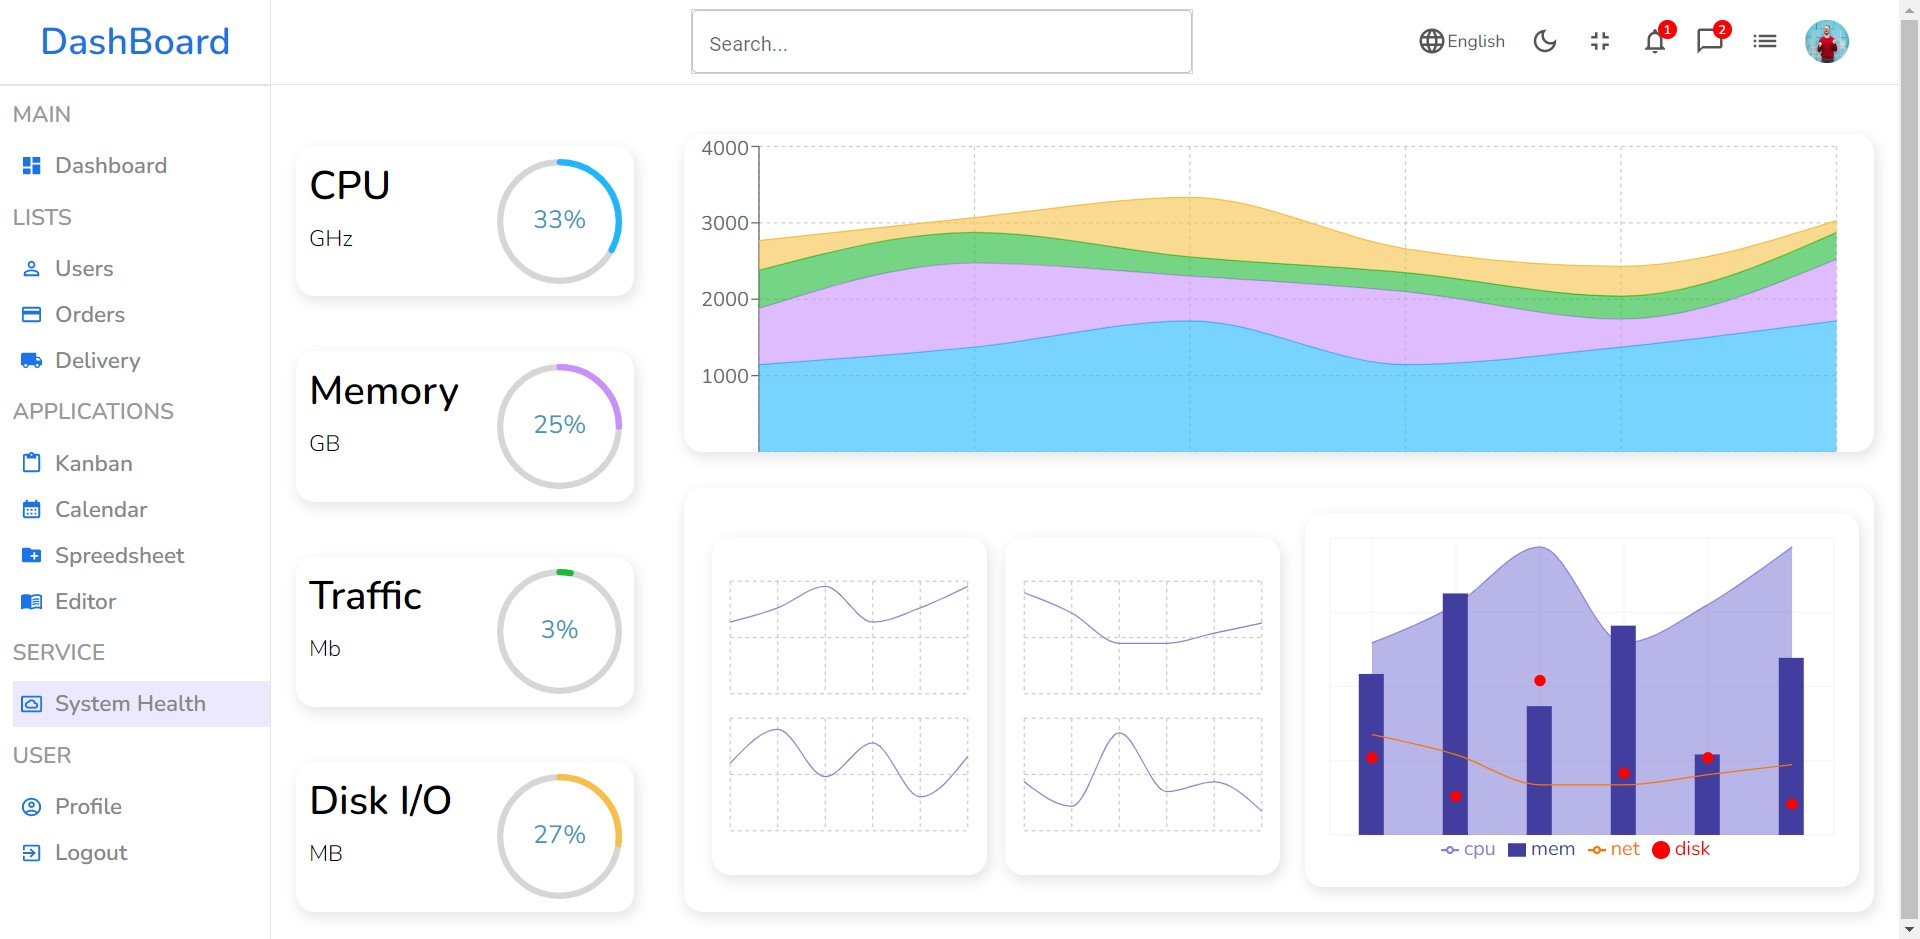
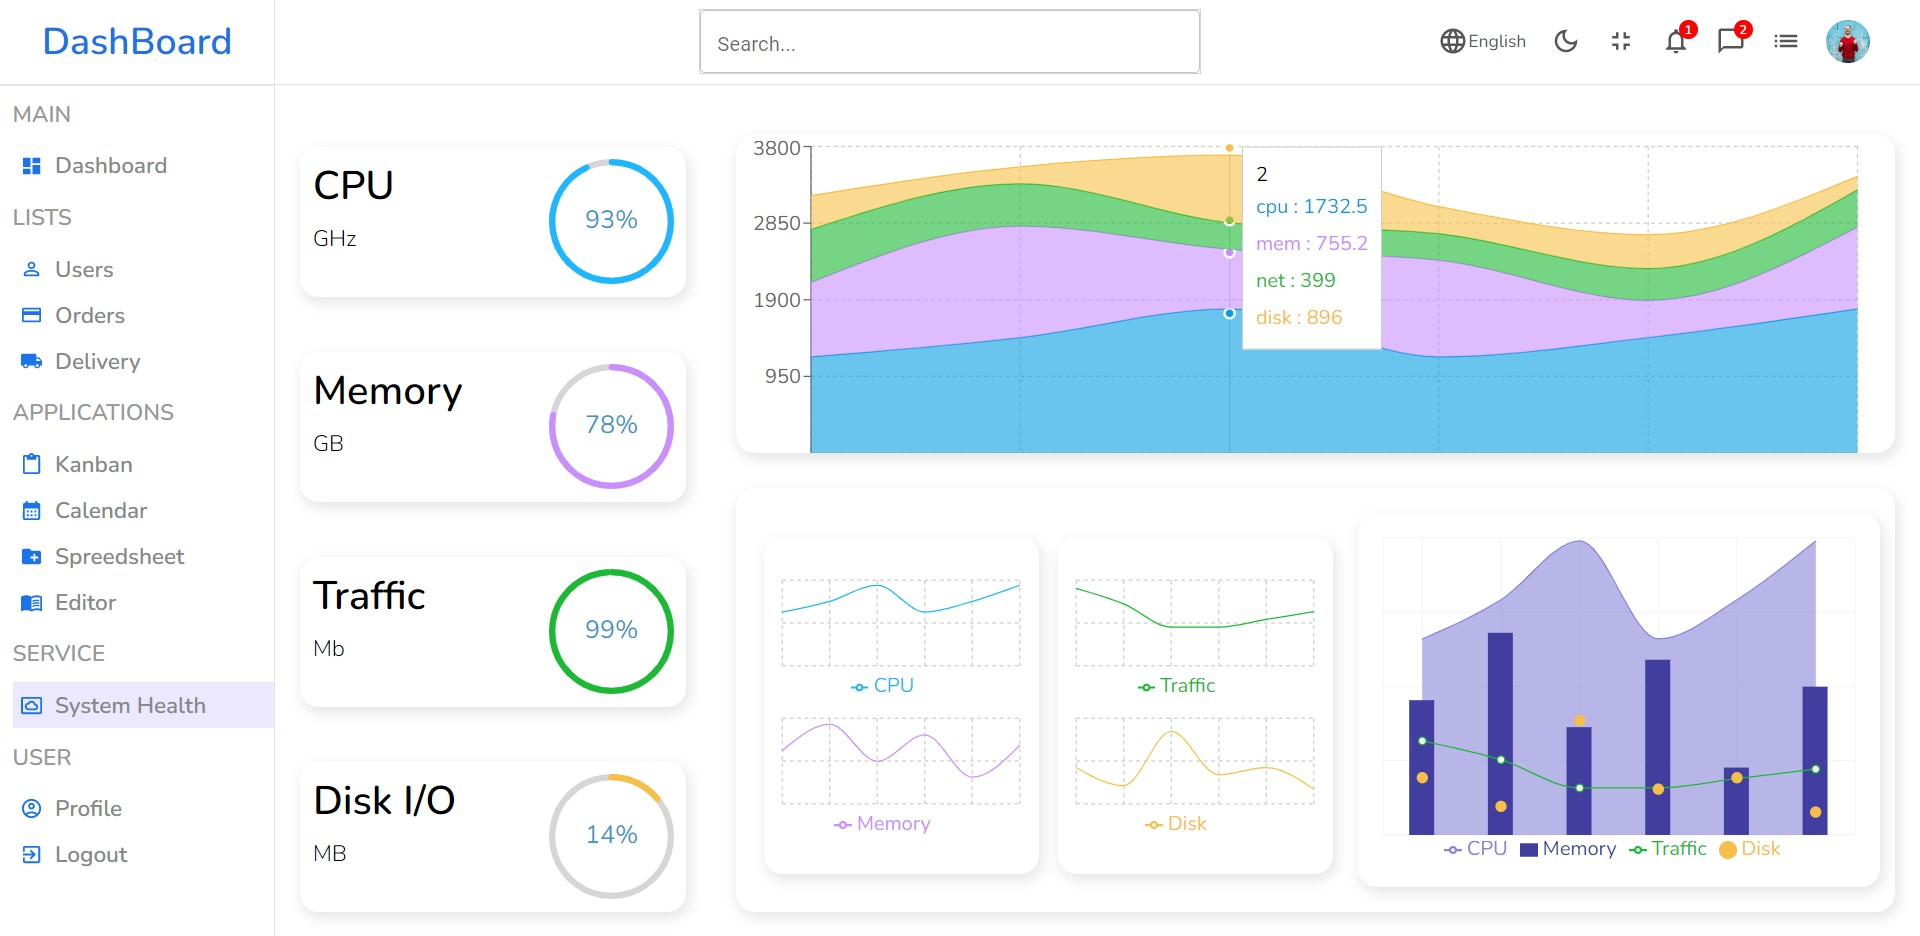
added system health section and Loader

diff --git a/src/components/chart/MultipleChart.jsx b/src/components/chart/MultipleChart.jsx
@@ -2,14 +2,13 @@ import { useState, useEffect } from 'react';
 import { LineChart, Line, XAxis, YAxis, CartesianGrid, Tooltip, Legend } from 'recharts';
 import './chart.css'
 
-
 function MultipleChart() {
 
     const [data, setData] = useState([{
-        cpu: 4000,
-        mem: 2400,
-        net: 2400,
-        disk: 2000
+        CPU: 4000,
+        Memory: 2400,
+        Traffic: 2400,
+        Disk: 2000
     },]);
 
     useEffect(() => {
@@ -19,9 +18,9 @@ function MultipleChart() {
             let c = Math.floor(Math.random() * (800 - 500 + 1) + 500)
             let d = Math.floor(Math.random() * (500 - 300 + 1) + 300)
 
-            setData([{ cpu: a, mem: b, net: c, disk: d }, { cpu: 1.2 * a, mem: 1.5 * b, net: 0.8 * c, disk: 0.5 * d },
-            { cpu: 1.5 * a, mem: 0.8 * b, net: 0.5 * c, disk: 2 * d }, { cpu: a, mem: 1.3 * b, net: 0.5 * c, disk: 0.8 * d },
-            { cpu: 1.2 * a, mem: 0.5 * b, net: 0.6 * c, disk: d }, { cpu: 1.5 * a, mem: 1.1 * b, net: 0.7 * c, disk: 0.4 * d }])
+            setData([{ CPU: a, Memory: b, Traffic: c, Disk: d }, { CPU: 1.2 * a, Memory: 1.5 * b, Traffic: 0.8 * c, Disk: 0.5 * d },
+            { CPU: 1.5 * a, Memory: 0.8 * b, Traffic: 0.5 * c, Disk: 2 * d }, { CPU: a, Memory: 1.3 * b, Traffic: 0.5 * c, Disk: 0.8 * d },
+            { CPU: 1.2 * a, Memory: 0.5 * b, Traffic: 0.6 * c, Disk: d }, { CPU: 1.5 * a, Memory: 1.1 * b, Traffic: 0.7 * c, Disk: 0.4 * d }])
         }, 4000)
     }, [])
 
@@ -30,24 +29,28 @@ function MultipleChart() {
             <div className="multi-chart-row1">
                 <LineChart className='small-charts' width={200} height={100} data={data}>
                     <CartesianGrid strokeDasharray="3 3" />
-                    <Line type="monotone" dataKey="cpu" stroke="#8884d8" activeDot={{ r: 8 }} />
+                    <Legend />
+                    <Line type="monotone" dataKey="CPU" stroke="rgb(30, 183, 255)" activeDot={{ r: 8 }} />
                 </LineChart>
 
                 <LineChart className='small-charts' width={200} height={100} data={data}>
                     <CartesianGrid strokeDasharray="3 3" />
-                    <Line type="monotone" dataKey="mem" stroke="#8884d8" activeDot={{ r: 8 }} />
+                    <Legend />
+                    <Line type="monotone" dataKey="Memory" stroke="rgb(202, 142, 255)" activeDot={{ r: 8 }} />
                 </LineChart>
             </div>
 
             <div className="multi-chart-row2">
                 <LineChart className='small-charts' width={200} height={100} data={data}>
                     <CartesianGrid strokeDasharray="3 3" />
-                    <Line type="monotone" dataKey="net" stroke="#8884d8" activeDot={{ r: 8 }} />
+                    <Legend />
+                    <Line type="monotone" dataKey="Traffic" stroke="rgb(27, 185, 52)" activeDot={{ r: 8 }} />
                 </LineChart>
 
                 <LineChart className='small-charts' width={200} height={100} data={data}>
                     <CartesianGrid strokeDasharray="3 3" />
-                    <Line type="monotone" dataKey="disk" stroke="#8884d8" activeDot={{ r: 8 }} />
+                    <Legend />
+                    <Line type="monotone" dataKey="Disk" stroke="rgb(247, 191, 71)" activeDot={{ r: 8 }} />
                 </LineChart>
             </div>
         </div>
@@ -55,3 +58,4 @@ function MultipleChart() {
 }
 
 export default MultipleChart
+

diff --git a/src/components/chart/LineBarArea.jsx b/src/components/chart/LineBarArea.jsx
@@ -13,58 +13,14 @@ import {
     ResponsiveContainer,
 } from 'recharts';
 
-// const data = [
-//     {
-//         name: 'Page A',
-//         uv: 590,
-//         pv: 800,
-//         amt: 1400,
-//         cnt: 490,
-//     },
-//     {
-//         name: 'Page B',
-//         uv: 868,
-//         pv: 967,
-//         amt: 1506,
-//         cnt: 590,
-//     },
-//     {
-//         name: 'Page C',
-//         uv: 1397,
-//         pv: 1098,
-//         amt: 989,
-//         cnt: 350,
-//     },
-//     {
-//         name: 'Page D',
-//         uv: 1480,
-//         pv: 1200,
-//         amt: 1228,
-//         cnt: 480,
-//     },
-//     {
-//         name: 'Page E',
-//         uv: 1520,
-//         pv: 1108,
-//         amt: 1100,
-//         cnt: 460,
-//     },
-//     {
-//         name: 'Page F',
-//         uv: 1400,
-//         pv: 680,
-//         amt: 1700,
-//         cnt: 380,
-//     },
-// ];
 
 function LineBarArea() {
 
     const [data, setData] = useState([{
-        cpu: 4000,
-        mem: 2400,
-        net: 2400,
-        disk: 2000
+        CPU: 4000,
+        Memory: 2400,
+        Traffic: 2400,
+        Disk: 2000
     },]);
 
     useEffect(() => {
@@ -74,10 +30,10 @@ function LineBarArea() {
             let c = Math.floor(Math.random() * (800 - 500 + 1) + 500)
             let d = Math.floor(Math.random() * (500 - 300 + 1) + 300)
 
-            setData([{ cpu: a, mem: b, net: c, disk: d }, { cpu: 1.2 * a, mem: 1.5 * b, net: 0.8 * c, disk: 0.5 * d },
-            { cpu: 1.5 * a, mem: 0.8 * b, net: 0.5 * c, disk: 2 * d }, { cpu: a, mem: 1.3 * b, net: 0.5 * c, disk: 0.8 * d },
-            { cpu: 1.2 * a, mem: 0.5 * b, net: 0.6 * c, disk: d }, { cpu: 1.5 * a, mem: 1.1 * b, net: 0.7 * c, disk: 0.4 * d }])
-        }, 4000)
+            setData([{ CPU: a, Memory: b, Traffic: c, Disk: d }, { CPU: 1.2 * a, Memory: 1.5 * b, Traffic: 0.8 * c, Disk: 0.5 * d },
+            { CPU: 1.5 * a, Memory: 0.8 * b, Traffic: 0.5 * c, Disk: 2 * d }, { CPU: a, Memory: 1.3 * b, Traffic: 0.5 * c, Disk: 0.8 * d },
+            { CPU: 1.2 * a, Memory: 0.5 * b, Traffic: 0.6 * c, Disk: d }, { CPU: 1.5 * a, Memory: 1.1 * b, Traffic: 0.7 * c, Disk: 0.4 * d }])
+        }, 6000)
     }, [])
 
     return (
@@ -97,10 +53,10 @@ function LineBarArea() {
                     <CartesianGrid stroke="#f5f5f5" />
                     <Tooltip />
                     <Legend />
-                    <Area type="monotone" dataKey="cpu" fill="#8884d8" stroke="#8884d8" />
-                    <Bar dataKey="mem" barSize={20} fill="#413ea0" />
-                    <Line type="monotone" dataKey="net" stroke="#ff7300" />
-                    <Scatter dataKey="disk" fill="red" />
+                    <Area type="monotone" dataKey="CPU" fill="#8884d8" stroke="#8884d8" />
+                    <Bar dataKey="Memory" barSize={20} fill="#413ea0" />
+                    <Line type="monotone" dataKey="Traffic" stroke="rgb(27, 185, 52)" />
+                    <Scatter dataKey="Disk" fill="rgb(247, 191, 71)" />
                 </ComposedChart>
             </ResponsiveContainer>
         </div>

diff --git a/src/components/chart/MonitorChart.jsx b/src/components/chart/MonitorChart.jsx
@@ -41,7 +41,7 @@ function MonitorChart() {
                     <CartesianGrid strokeDasharray="3 3" />
                     <YAxis />
                     <Tooltip />
-                    <Area type="monotone" dataKey="cpu" stackId="1" stroke="rgb(30, 183, 255)" fill="rgb(30, 183, 255)" />
+                    <Area type="monotone" dataKey="cpu" stackId="1" stroke="rgb(5, 157, 227)" fill="rgb(5, 157, 227)" />
                     <Area type="monotone" dataKey="mem" stackId="1" stroke="rgb(202, 142, 255)" fill="rgb(202, 142, 255)" />
                     <Area type="monotone" dataKey="net" stackId="1" stroke="rgb(27, 185, 52)" fill="rgb(27, 185, 52)" />
                     <Area type="monotone" dataKey="disk" stackId="1" stroke="rgb(247, 191, 71)" fill="rgb(247, 191, 71)" />
